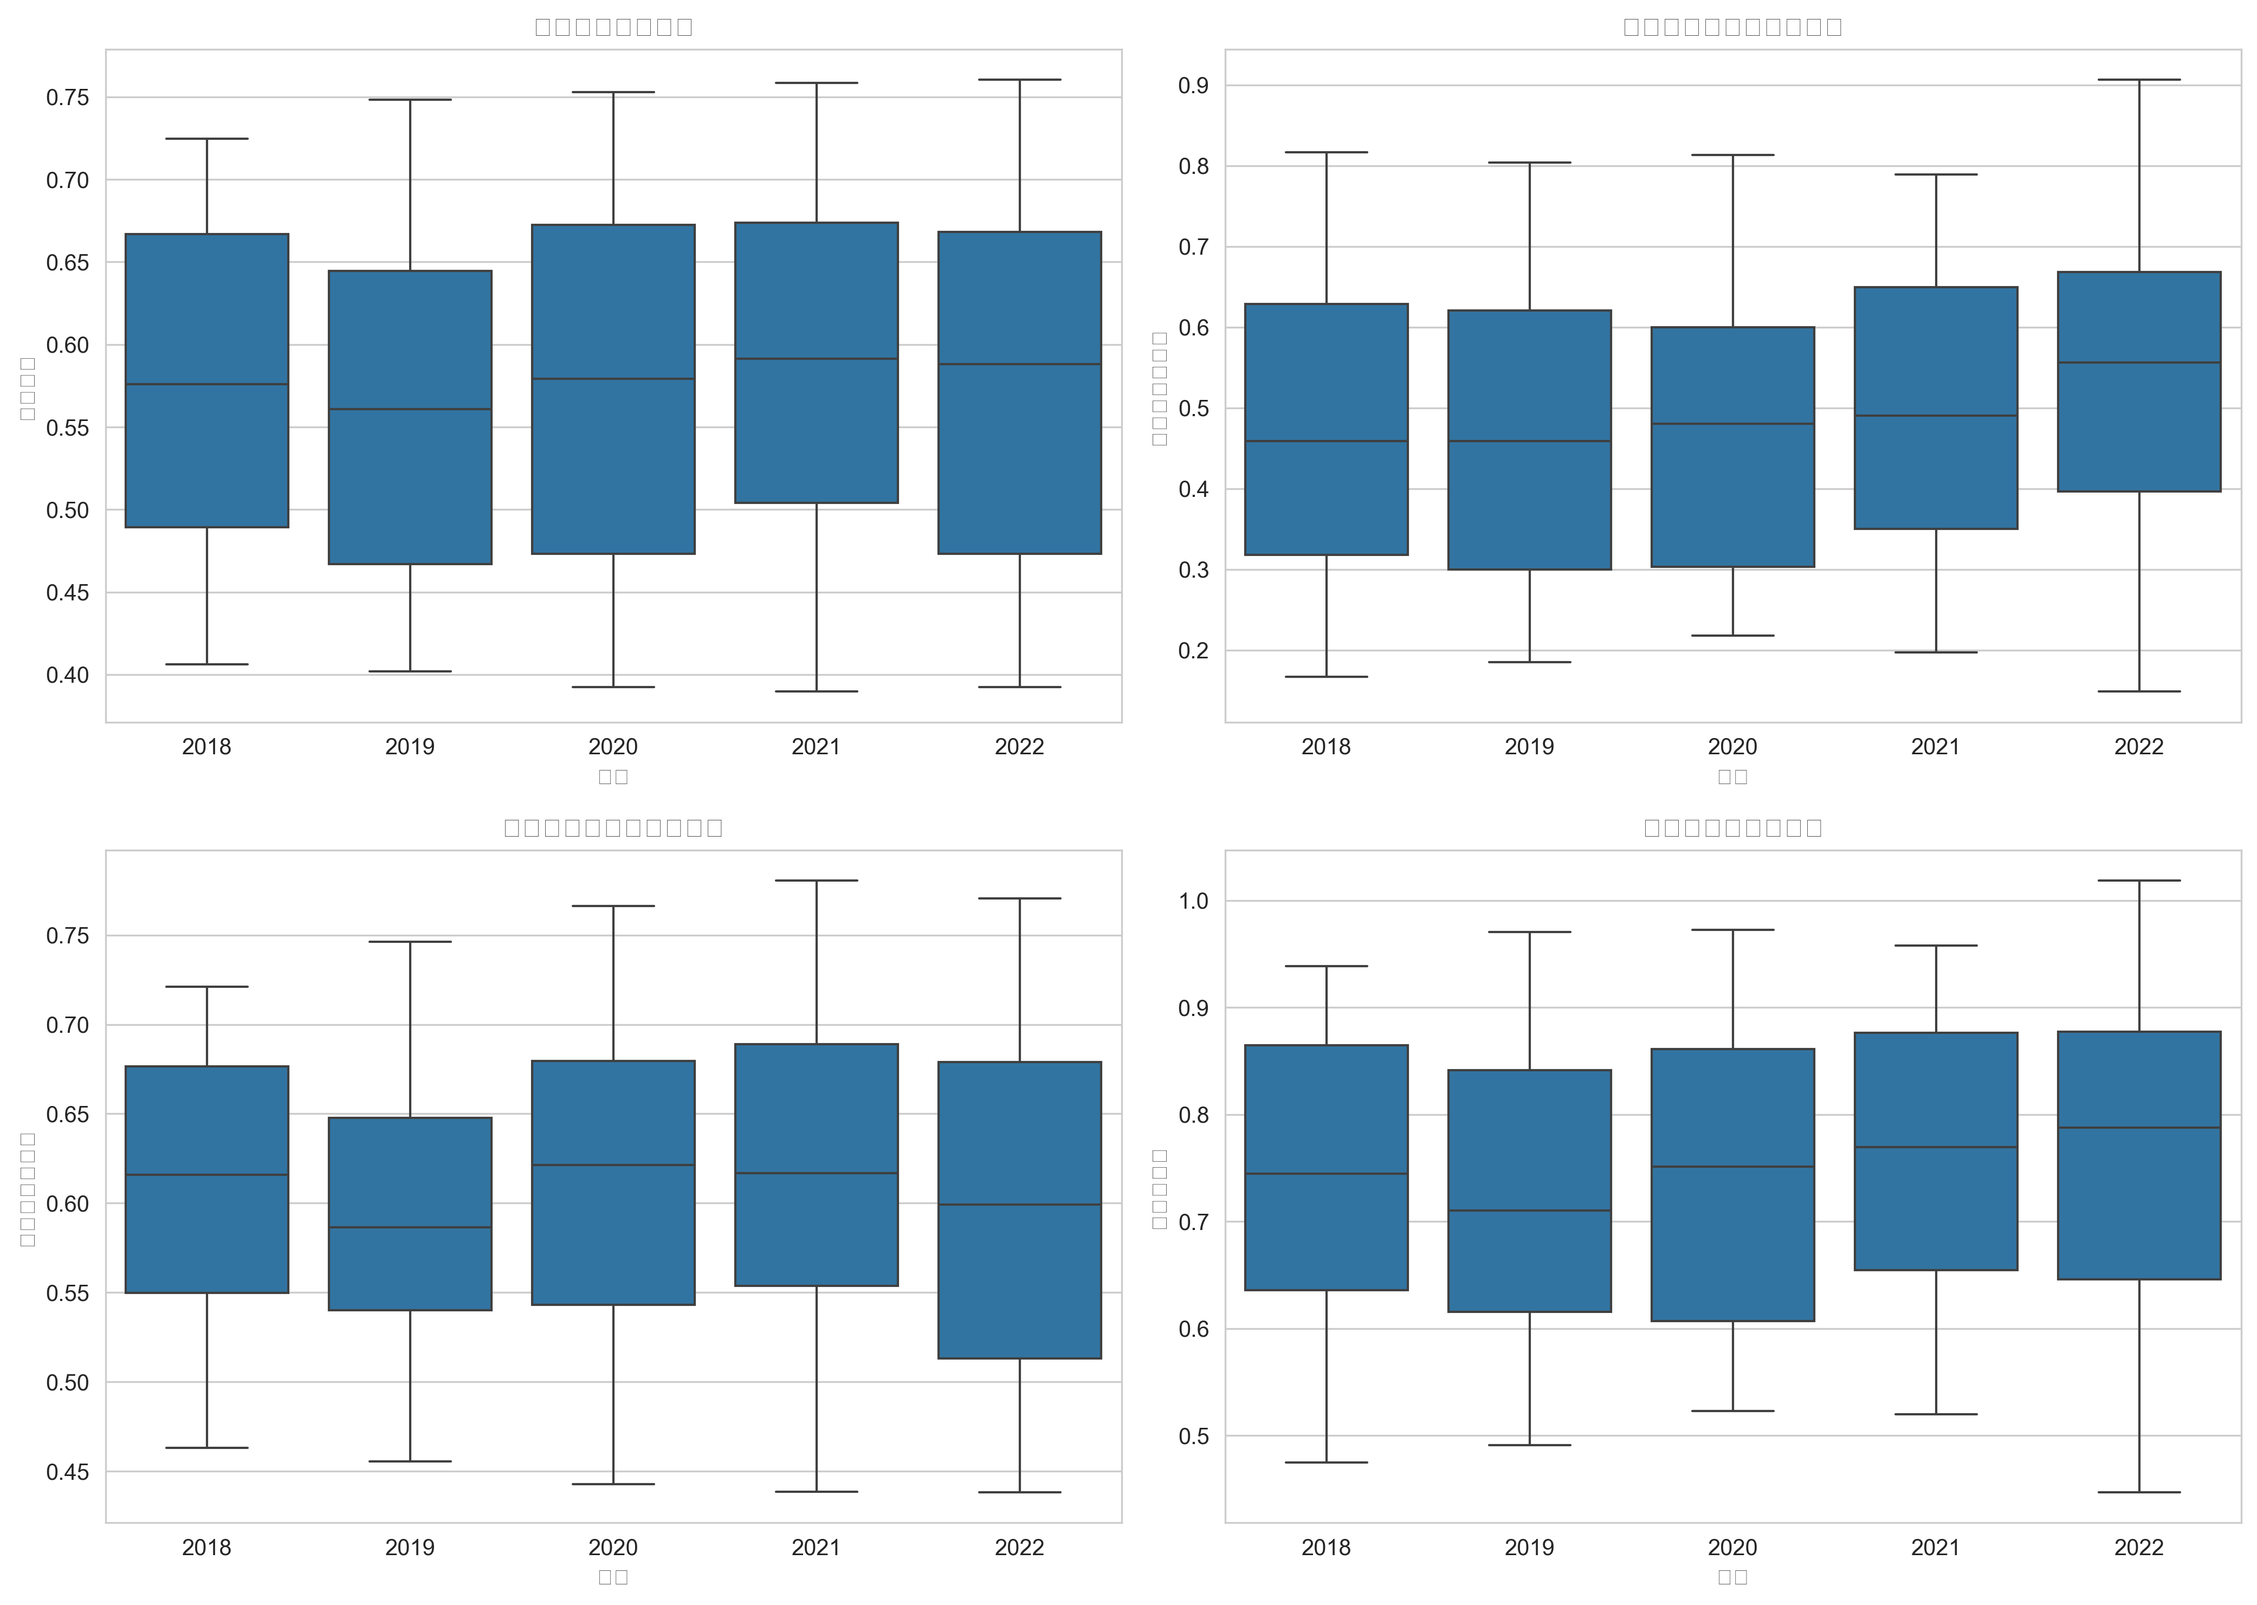
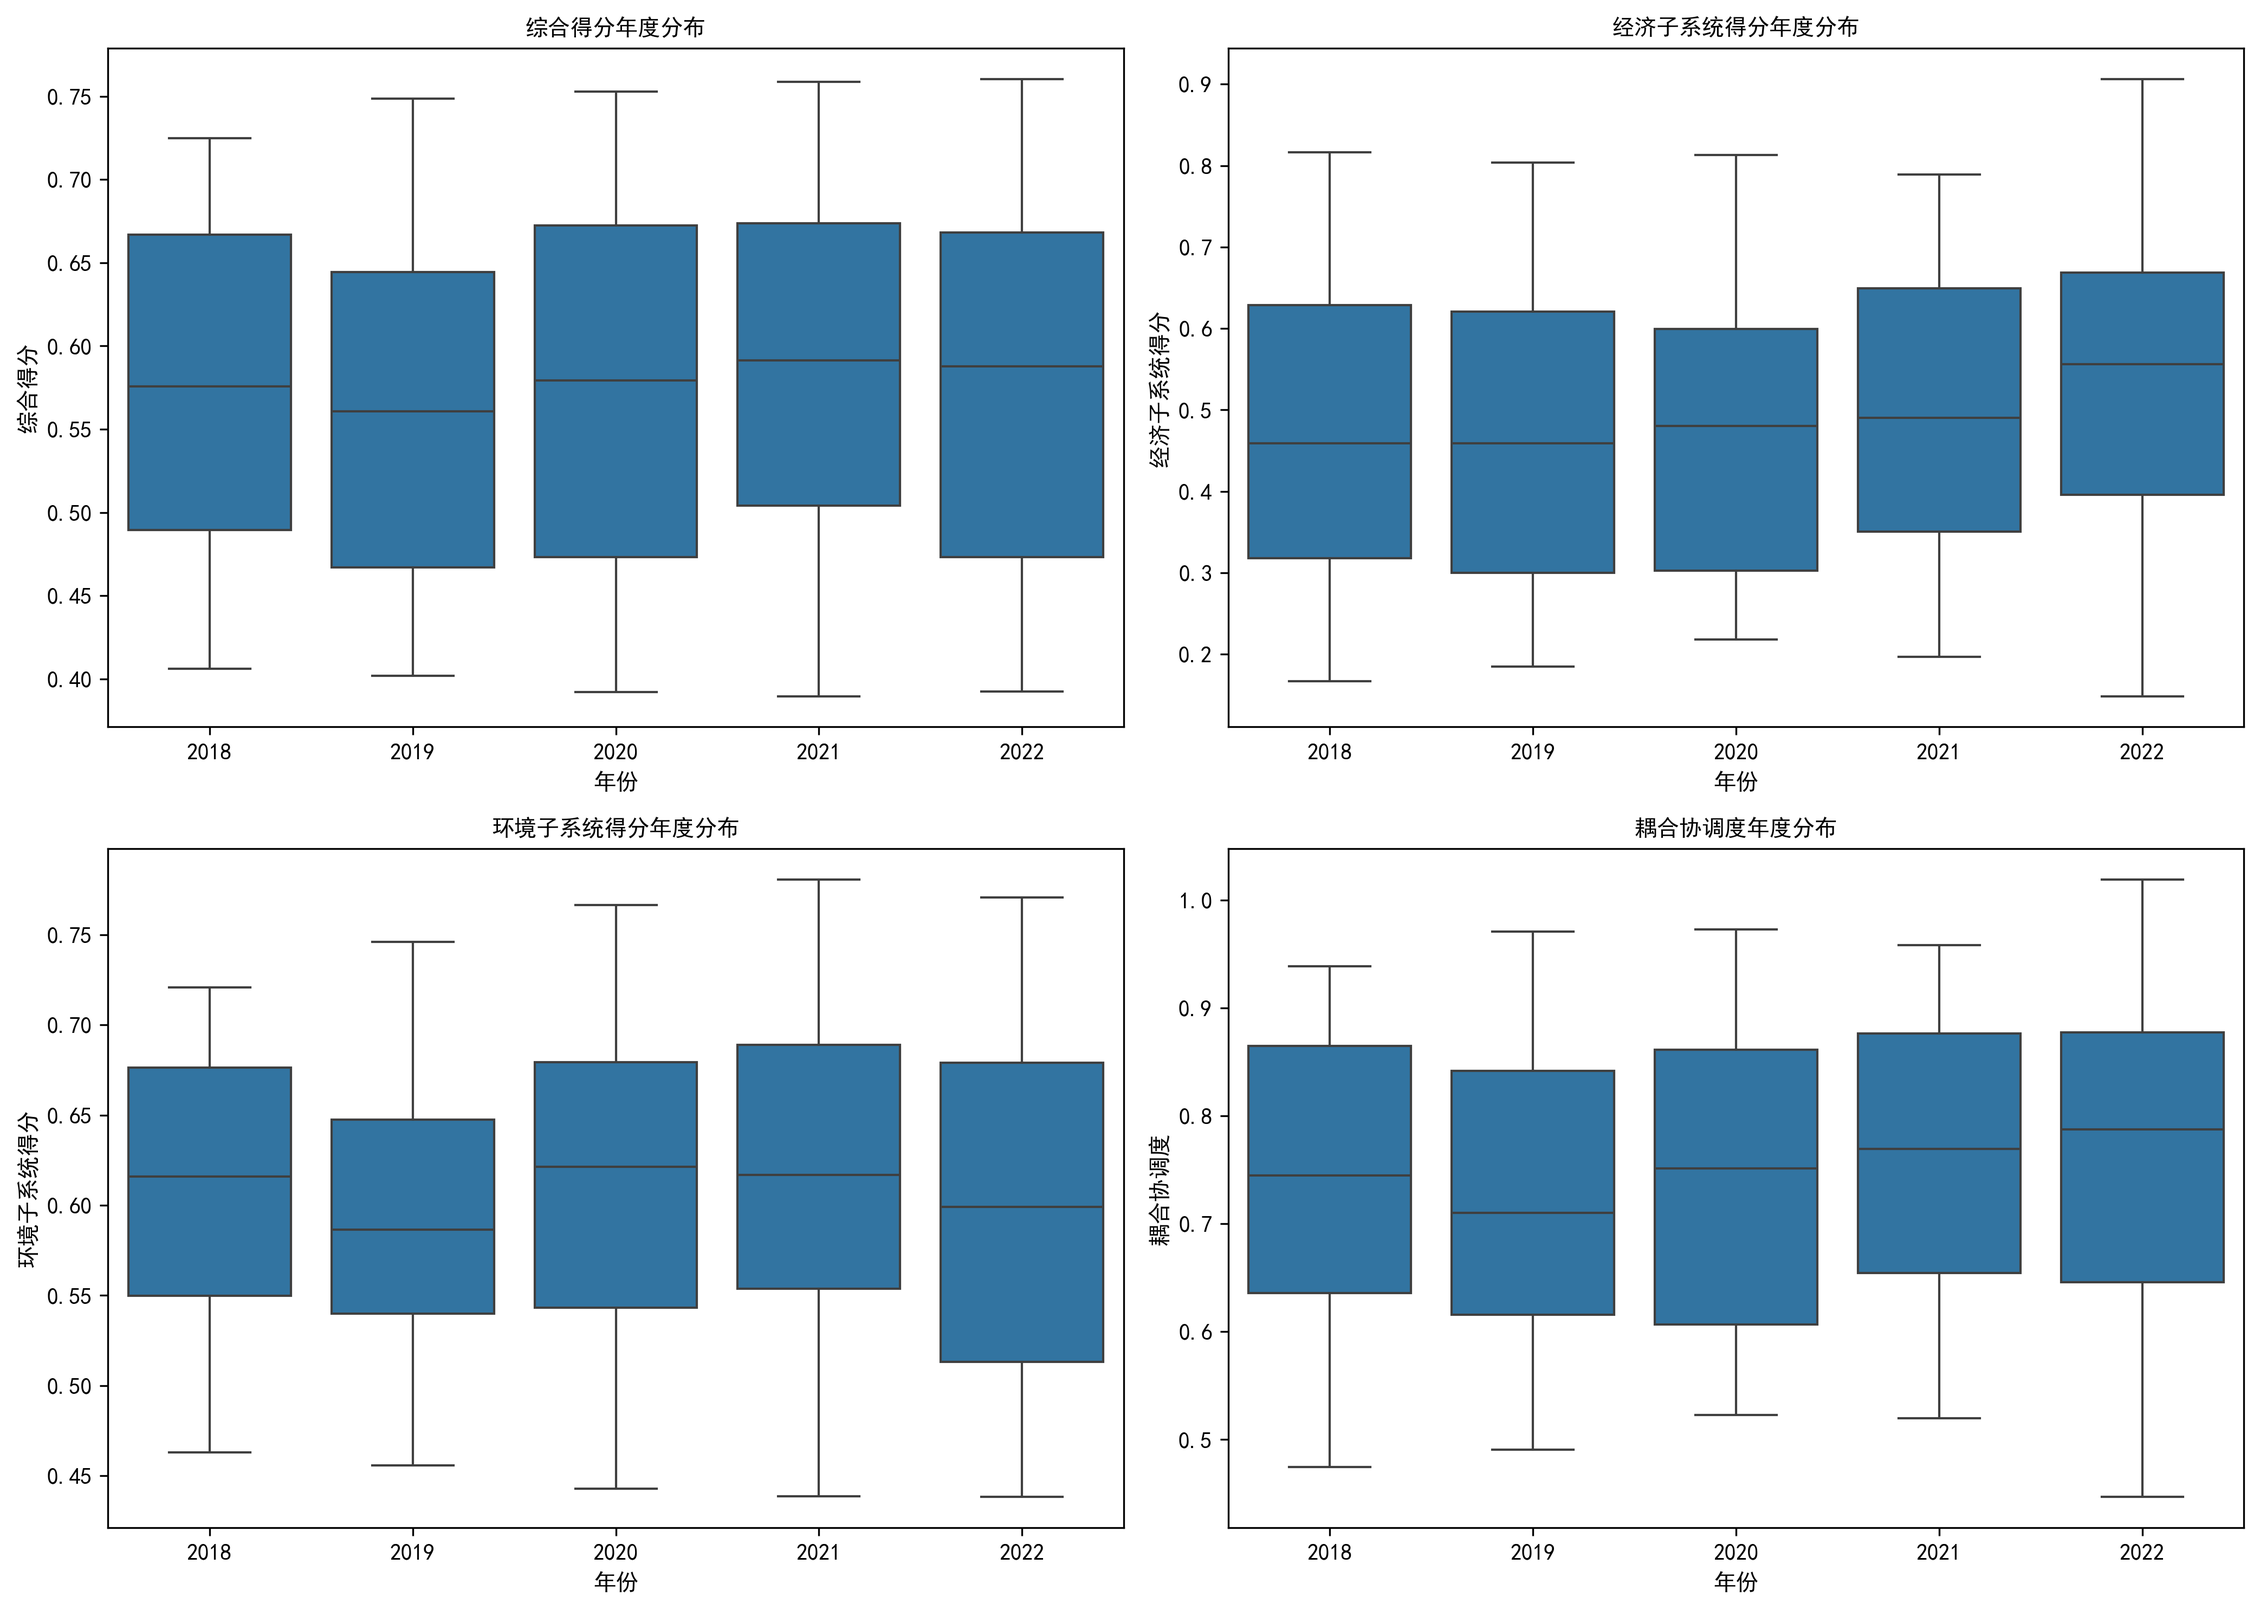
修复图片问题

diff --git a/fix_chart_fonts.py b/fix_chart_fonts.py
@@ -1,0 +1,184 @@
+"""
+修复图表字体乱码问题
+"""
+
+import os
+import pandas as pd
+import numpy as np
+import matplotlib.pyplot as plt
+import matplotlib.font_manager as fm
+import seaborn as sns
+import warnings
+warnings.filterwarnings('ignore')
+
+def get_chinese_font():
+    """获取中文字体"""
+    # 查找系统中的中文字体
+    chinese_fonts = []
+    for font in fm.findSystemFonts():
+        try:
+            font_name = fm.FontProperties(fname=font).get_name()
+            if any(name in font.lower() for name in ['simhei', 'yahei', '黑体', '微软雅黑']):
+                chinese_fonts.append(font)
+        except:
+            pass
+    
+    if chinese_fonts:
+        print(f"找到中文字体: {chinese_fonts[0]}")
+        return fm.FontProperties(fname=chinese_fonts[0])
+    else:
+        print("未找到中文字体，使用默认字体")
+        return None
+
+def regenerate_charts():
+    """重新生成所有图表"""
+    print("开始修复图表字体...")
+    
+    # 获取中文字体
+    chinese_font = get_chinese_font()
+    
+    # 读取数据
+    results = pd.read_excel('analysis_results/分析结果.xlsx')
+    
+    # 创建输出目录
+    output_dir = '绿色发展研究结果'
+    vis_dir = os.path.join(output_dir, '可视化图表')
+    if not os.path.exists(vis_dir):
+        os.makedirs(vis_dir)
+    
+    print(f"数据形状: {results.shape}")
+    print(f"输出目录: {vis_dir}")
+    
+    # 图表1: 时间演化特征总图
+    print("\n生成时间演化特征总图...")
+    fig, axes = plt.subplots(2, 2, figsize=(16, 12))
+    
+    numeric_cols = results.select_dtypes(include=[np.number]).columns
+    yearly_avg = results.groupby('年份')[numeric_cols].mean()
+    
+    axes[0, 0].plot(yearly_avg.index, yearly_avg['综合得分'], 
+                     marker='o', linewidth=2, markersize=8)
+    axes[0, 0].set_title('绿色发展综合得分时间趋势', fontsize=14, fontweight='bold', fontproperties=chinese_font)
+    axes[0, 0].set_xlabel('年份', fontproperties=chinese_font)
+    axes[0, 0].set_ylabel('得分', fontproperties=chinese_font)
+    axes[0, 0].grid(True, alpha=0.3)
+    
+    axes[0, 1].plot(yearly_avg.index, yearly_avg['经济子系统得分'], 
+                     marker='s', linewidth=2, markersize=8, label='经济子系统', color='blue')
+    axes[0, 1].plot(yearly_avg.index, yearly_avg['环境子系统得分'], 
+                     marker='^', linewidth=2, markersize=8, label='环境子系统', color='green')
+    axes[0, 1].set_title('子系统得分时间趋势', fontsize=14, fontweight='bold', fontproperties=chinese_font)
+    axes[0, 1].set_xlabel('年份', fontproperties=chinese_font)
+    axes[0, 1].set_ylabel('得分', fontproperties=chinese_font)
+    if chinese_font:
+        axes[0, 1].legend(prop=chinese_font)
+    else:
+        axes[0, 1].legend()
+    axes[0, 1].grid(True, alpha=0.3)
+    
+    axes[1, 0].plot(yearly_avg.index, yearly_avg['耦合度'], 
+                     marker='D', linewidth=2, markersize=8, label='耦合度', color='orange')
+    axes[1, 0].plot(yearly_avg.index, yearly_avg['耦合协调度'], 
+                     marker='*', linewidth=2, markersize=10, label='耦合协调度', color='red')
+    axes[1, 0].set_title('耦合协调度时间趋势', fontsize=14, fontweight='bold', fontproperties=chinese_font)
+    axes[1, 0].set_xlabel('年份', fontproperties=chinese_font)
+    axes[1, 0].set_ylabel('协调度', fontproperties=chinese_font)
+    if chinese_font:
+        axes[1, 0].legend(prop=chinese_font)
+    else:
+        axes[1, 0].legend()
+    axes[1, 0].grid(True, alpha=0.3)
+    
+    # 协调等级分布饼图
+    level_counts = results['协调等级'].value_counts()
+    wedges, texts, autotexts = axes[1, 1].pie(level_counts.values, labels=level_counts.index, autopct='%1.1f%%', startangle=90)
+    axes[1, 1].set_title('协调等级分布', fontsize=14, fontweight='bold', fontproperties=chinese_font)
+    if chinese_font:
+        for text in texts + autotexts:
+            text.set_fontproperties(chinese_font)
+    
+    plt.tight_layout()
+    plt.savefig(os.path.join(vis_dir, '时间演化特征总图.png'), dpi=300, bbox_inches='tight')
+    plt.close()
+    print("✓ 时间演化特征总图生成完成")
+    
+    # 图表2: 省份得分热力图
+    print("\n生成省份得分热力图...")
+    pivot_df = results.pivot(index='省份', columns='年份', values='综合得分')
+    fig, ax = plt.subplots(figsize=(16, 12))
+    sns.heatmap(pivot_df, annot=True, fmt='.4f', cmap='RdYlGn', center=0.5, ax=ax)
+    ax.set_title('各省份绿色发展综合得分热力图', fontsize=14, fontweight='bold', fontproperties=chinese_font)
+    ax.set_xlabel('年份', fontproperties=chinese_font)
+    ax.set_ylabel('省份', fontproperties=chinese_font)
+    if chinese_font:
+        for label in ax.get_xticklabels() + ax.get_yticklabels():
+            label.set_fontproperties(chinese_font)
+    plt.tight_layout()
+    plt.savefig(os.path.join(vis_dir, '省份得分热力图.png'), dpi=300, bbox_inches='tight')
+    plt.close()
+    print("✓ 省份得分热力图生成完成")
+    
+    # 图表3: 年度分布箱线图
+    print("\n生成年度分布箱线图...")
+    fig, axes = plt.subplots(2, 2, figsize=(14, 10))
+    
+    sns.boxplot(x='年份', y='综合得分', data=results, ax=axes[0, 0])
+    axes[0, 0].set_title('综合得分年度分布', fontsize=12, fontweight='bold', fontproperties=chinese_font)
+    axes[0, 0].set_xlabel('年份', fontproperties=chinese_font)
+    axes[0, 0].set_ylabel('综合得分', fontproperties=chinese_font)
+    
+    sns.boxplot(x='年份', y='经济子系统得分', data=results, ax=axes[0, 1])
+    axes[0, 1].set_title('经济子系统得分年度分布', fontsize=12, fontweight='bold', fontproperties=chinese_font)
+    axes[0, 1].set_xlabel('年份', fontproperties=chinese_font)
+    axes[0, 1].set_ylabel('经济子系统得分', fontproperties=chinese_font)
+    
+    sns.boxplot(x='年份', y='环境子系统得分', data=results, ax=axes[1, 0])
+    axes[1, 0].set_title('环境子系统得分年度分布', fontsize=12, fontweight='bold', fontproperties=chinese_font)
+    axes[1, 0].set_xlabel('年份', fontproperties=chinese_font)
+    axes[1, 0].set_ylabel('环境子系统得分', fontproperties=chinese_font)
+    
+    sns.boxplot(x='年份', y='耦合协调度', data=results, ax=axes[1, 1])
+    axes[1, 1].set_title('耦合协调度年度分布', fontsize=12, fontweight='bold', fontproperties=chinese_font)
+    axes[1, 1].set_xlabel('年份', fontproperties=chinese_font)
+    axes[1, 1].set_ylabel('耦合协调度', fontproperties=chinese_font)
+    
+    # 设置所有子图的字体
+    if chinese_font:
+        for ax_row in axes:
+            for ax in ax_row:
+                for label in ax.get_xticklabels() + ax.get_yticklabels():
+                    label.set_fontproperties(chinese_font)
+    
+    plt.tight_layout()
+    plt.savefig(os.path.join(vis_dir, '年度分布箱线图.png'), dpi=300, bbox_inches='tight')
+    plt.close()
+    print("✓ 年度分布箱线图生成完成")
+    
+    # 图表4: 经济环境关系散点图
+    print("\n生成经济环境关系散点图...")
+    fig, ax = plt.subplots(figsize=(10, 8))
+    scatter = ax.scatter(results['经济子系统得分'], results['环境子系统得分'], 
+                         c=results['年份'], cmap='viridis', alpha=0.6, s=100)
+    cbar = plt.colorbar(scatter, label='年份')
+    ax.set_xlabel('经济子系统得分', fontsize=12, fontproperties=chinese_font)
+    ax.set_ylabel('环境子系统得分', fontsize=12, fontproperties=chinese_font)
+    ax.set_title('经济与环境子系统关系散点图', fontsize=14, fontweight='bold', fontproperties=chinese_font)
+    ax.grid(True, alpha=0.3)
+    
+    # 设置字体
+    if chinese_font:
+        for label in ax.get_xticklabels() + ax.get_yticklabels():
+            label.set_fontproperties(chinese_font)
+        cbar.ax.set_ylabel('年份', fontproperties=chinese_font)
+        for label in cbar.ax.get_yticklabels():
+            label.set_fontproperties(chinese_font)
+    
+    plt.tight_layout()
+    plt.savefig(os.path.join(vis_dir, '经济环境关系散点图.png'), dpi=300, bbox_inches='tight')
+    plt.close()
+    print("✓ 经济环境关系散点图生成完成")
+    
+    print("\n所有图表已重新生成，字体问题已修复！")
+
+if __name__ == '__main__':
+    regenerate_charts()

diff --git a/test_fonts.py b/test_fonts.py
@@ -1,0 +1,41 @@
+"""
+测试Matplotlib中文字体设置
+"""
+
+import matplotlib.pyplot as plt
+import matplotlib.font_manager as fm
+
+# 测试字体设置
+print("=== Matplotlib字体测试 ===")
+print("当前font.family:", plt.rcParams['font.family'])
+print("当前font.sans-serif:", plt.rcParams['font.sans-serif'])
+print("axes.unicode_minus:", plt.rcParams['axes.unicode_minus'])
+
+# 查找系统中的中文字体
+print("\n=== 系统中文字体 ===")
+found = False
+for font in fm.findSystemFonts():
+    font_name = fm.FontProperties(fname=font).get_name()
+    if any(chinese_char in font_name for chinese_char in ['SimHei', '黑体', 'YaHei', '微软雅黑', 'Song', '宋体']):
+        print(f"找到字体: {font_name} - {font}")
+        found = True
+
+if not found:
+    print("未找到中文字体")
+
+# 测试绘制中文
+print("\n=== 测试中文绘制 ===")
+try:
+    plt.figure(figsize=(8, 4))
+    plt.plot([1, 2, 3], [4, 5, 6])
+    plt.title('测试中文标题')
+    plt.xlabel('横坐标')
+    plt.ylabel('纵坐标')
+    plt.savefig('test_chinese_font.png', dpi=100)
+    print("✓ 中文绘制测试成功")
+except Exception as e:
+    print(f"✗ 中文绘制测试失败: {e}")
+finally:
+    plt.close()
+
+print("\n字体测试完成！")
